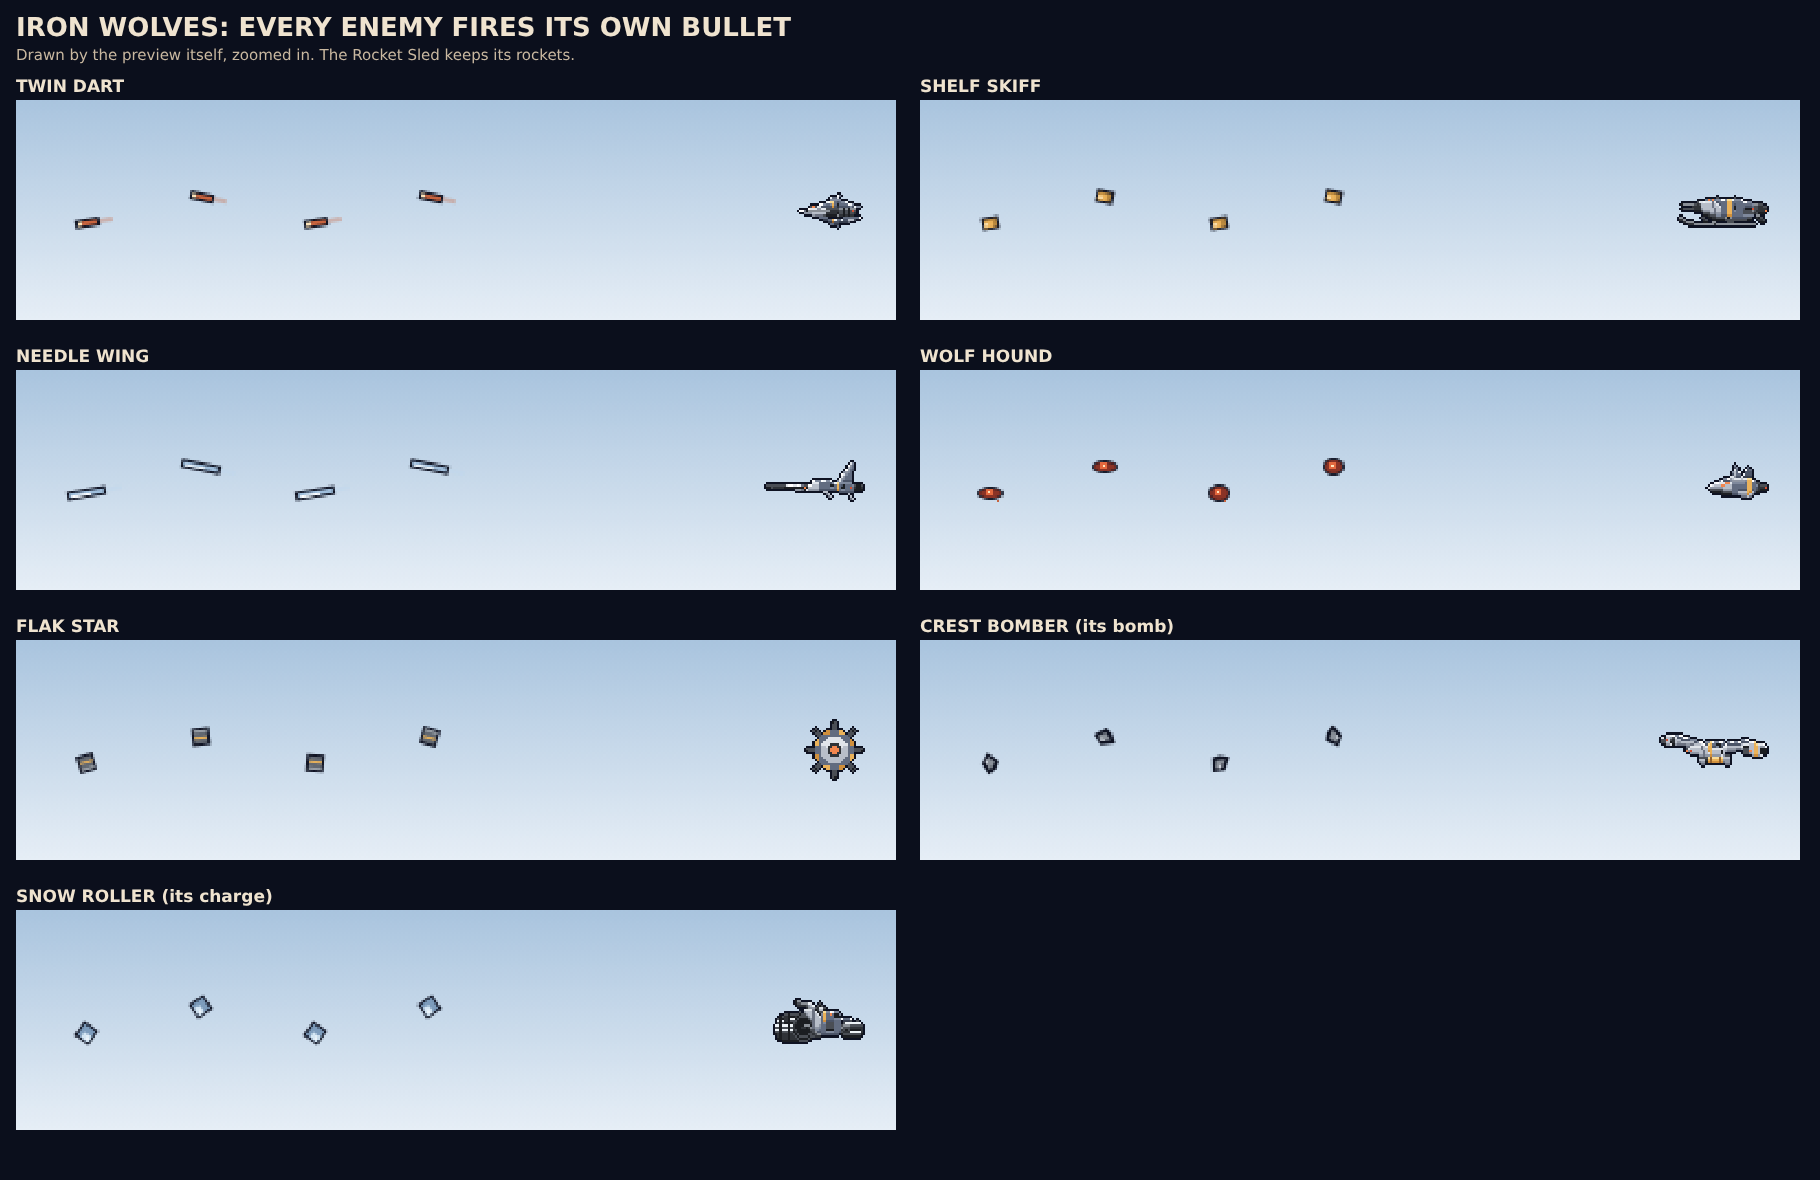
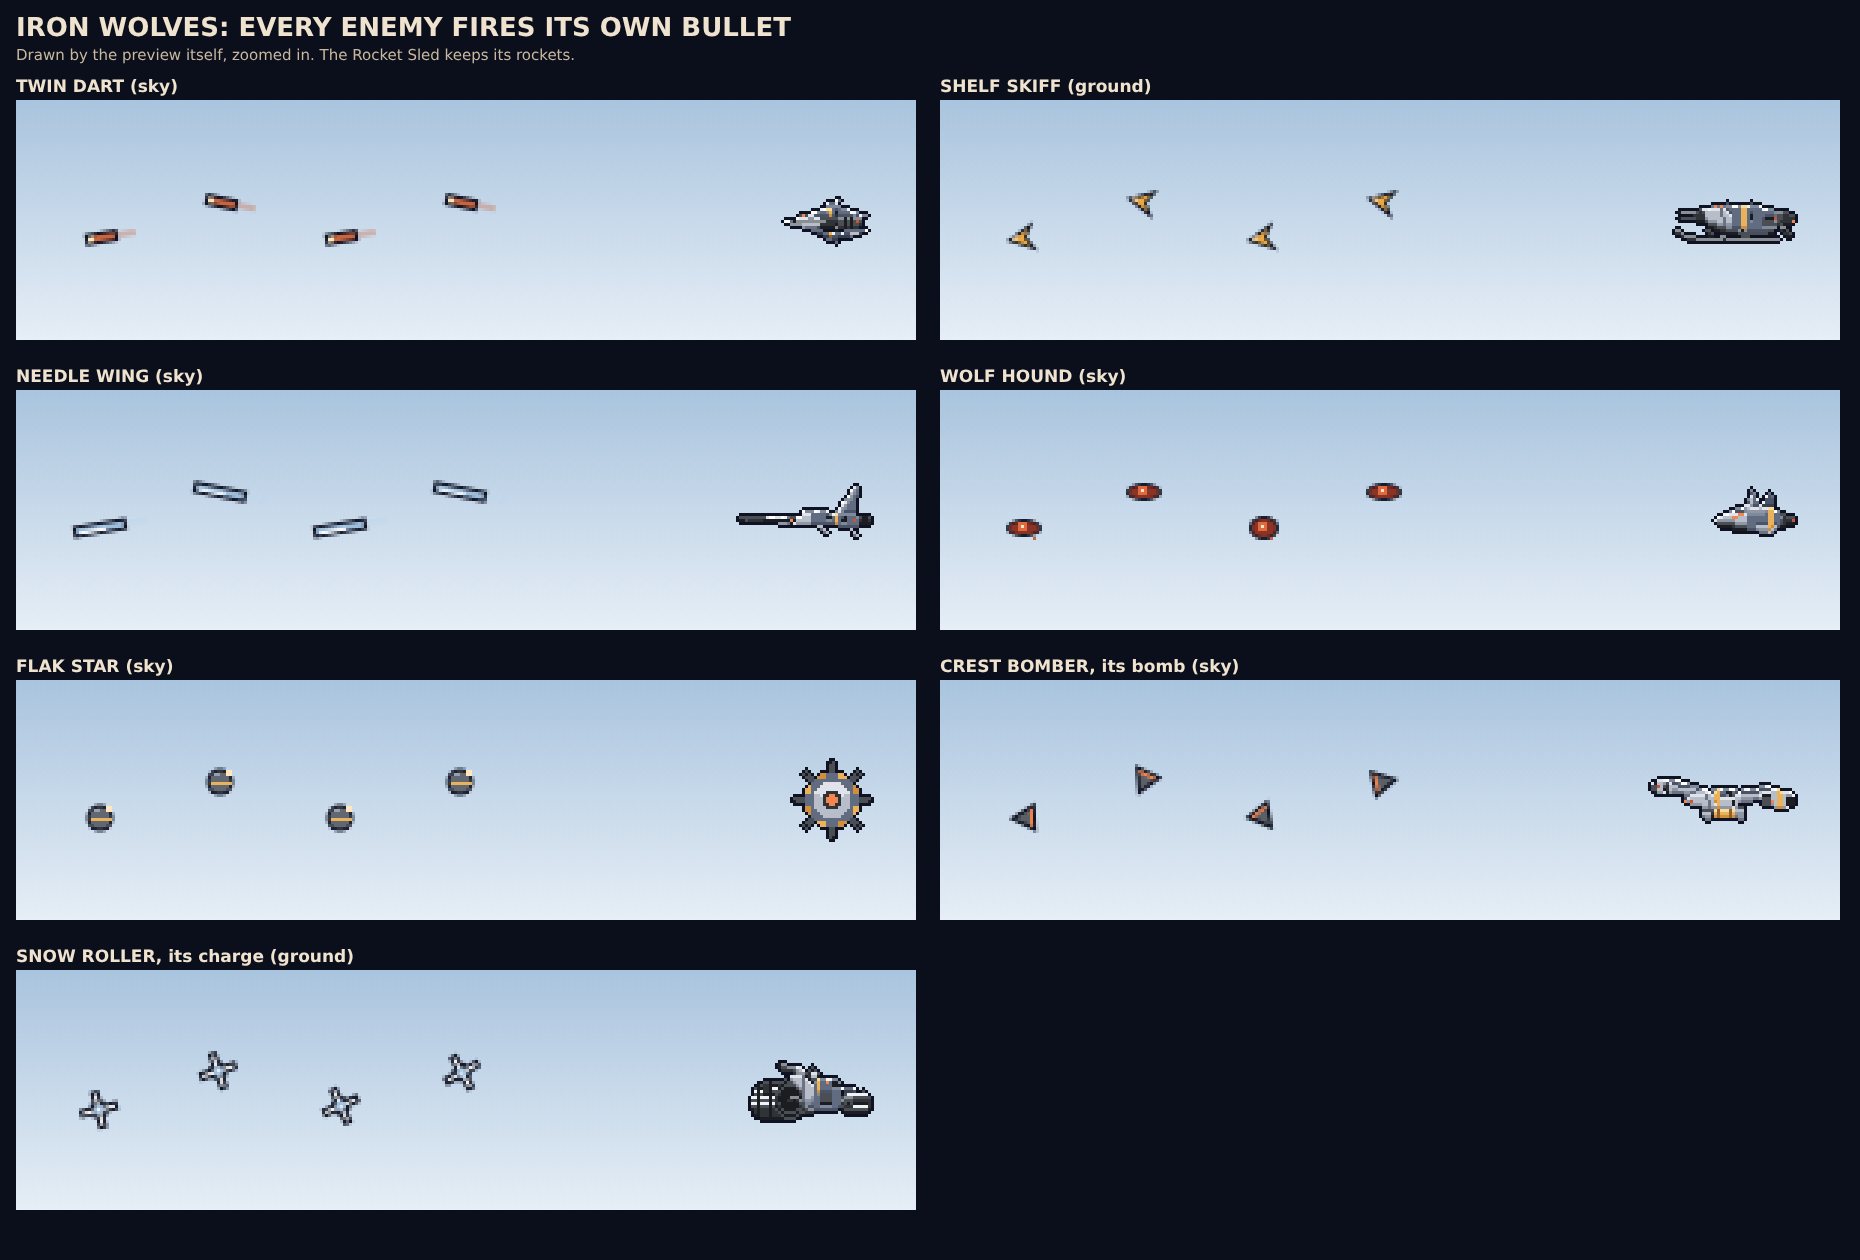
White Front preview: every bullet a different shape, not just colour
The owner saw a sky enemy and a ground enemy whose bullets still looked
alike. Now each is its own shape: red bolt (Twin Dart), brass arrowhead
(Shelf Skiff), long icy needle (Needle Wing), red-hot glob (Wolf Hound),
round grey flak ball (Flak Star), jagged triangle (bomb casing) and white
four-pointed ice crystal (Snow Roller's charge).

Claude-Session: https://claude.ai/code/session_018LoGNSpf9yPrdZyEJhPLuc

diff --git a/tools/white-front/sample/game.html b/tools/white-front/sample/game.html
@@ -510,15 +510,18 @@ const near = (x, y, r) => pAlive() && Math.hypot(S.p.x - x, S.p.y - y) < r;
 const aim = (x, y, sp) => { const dx = S.p.x - x, dy = S.p.y - y, d = Math.hypot(dx, dy) || 1; return [dx / d * sp, dy / d * sp]; };
 const speedUp = () => 1 + S.cycle * 0.12;
 // Every Iron Wolves enemy has its own bullet, each with a dark outline so it shows on snow and sky:
-// slug (Shelf Skiff), tracer (Twin Dart), rail (Needle Wing), slag (Wolf Hound), flak (Flak Star),
-// shard (Crest Bomber's bomb), ice (Snow Roller's charge); shell and ball for the older test armies.
+// each a different shape as well as colour, so no two can be mixed up at phone size:
+// slug (Shelf Skiff: brass arrowhead), tracer (Twin Dart: red bolt), rail (Needle Wing: long icy needle),
+// slag (Wolf Hound: red-hot glob), flak (Flak Star: round grey ball with an orange band), shard (Crest
+// Bomber's bomb: jagged triangle), ice (Snow Roller's charge: white four-pointed crystal); shell and ball for older armies.
 function drawBullet(e) {
   const x = Math.round(e.x * 2), y = Math.round(e.y * 2), K = '#0e1222', t = S.t + (e.seed || 0);
   const spin = (a, f) => { g.save(); g.translate(x, y); g.rotate(a); f(); g.restore(); };
   const along = Math.atan2(e.vy, e.vx);
   switch (e.kind) {
-    case 'slug': spin(along, () => { // a brass twin-gun slug
-      g.fillStyle = K; g.fillRect(-4, -3, 8, 6); g.fillStyle = '#b8873e'; g.fillRect(-3, -2, 6, 4); g.fillStyle = '#eab25a'; g.fillRect(-1, -2, 4, 3); g.fillStyle = '#fff1cf'; g.fillRect(1, -1, 2, 1); }); break;
+    case 'slug': spin(along, () => { // a brass arrowhead pointing where it flies (a chevron, nose first)
+      g.fillStyle = K; g.beginPath(); g.moveTo(6, 0); g.lineTo(-4, -5); g.lineTo(-1, 0); g.lineTo(-4, 5); g.closePath(); g.fill();
+      g.fillStyle = '#e8a845'; g.beginPath(); g.moveTo(4, 0); g.lineTo(-2, -3); g.lineTo(0, 0); g.lineTo(-2, 3); g.closePath(); g.fill(); g.fillStyle = '#fff1cf'; g.fillRect(2, 0, 2, 1); }); break;
     case 'tracer': spin(along, () => { // a red tracer bolt with a hot head and a fading tail
       g.fillStyle = 'rgba(200,100,63,0.35)'; g.fillRect(-12, -1, 8, 2); g.fillStyle = K; g.fillRect(-6, -2, 11, 4);
       g.fillStyle = '#c8643f'; g.fillRect(-5, -1, 7, 2); g.fillStyle = '#ffe6bc'; g.fillRect(2, -1, 2, 2); }); break;
@@ -531,14 +534,16 @@ function drawBullet(e) {
       g.fillStyle = '#8a3326'; g.beginPath(); g.ellipse(x, y, 4 + w, 3 - w, 0, 0, 7); g.fill();
       g.fillStyle = '#e2683e'; g.fillRect(x - 2, y - 2, 3, 3); g.fillStyle = '#ffe6bc'; g.fillRect(x - 1, y - 1, 1, 1);
       if (Math.floor(t * 12) % 3 === 0) { g.fillStyle = '#c8643f'; g.fillRect(x + 2 + w, y + 3, 1, 1); } break; }
-    case 'flak': spin(t * 9, () => { // a tumbling steel flak shell with a hazard band
-      g.fillStyle = K; g.fillRect(-4, -4, 8, 8); g.fillStyle = '#626871'; g.fillRect(-3, -3, 6, 6); g.fillStyle = '#9aa0a8'; g.fillRect(-3, -3, 6, 1);
-      g.fillStyle = '#eab25a'; g.fillRect(-3, 0, 6, 1); }); break;
-    case 'shard': spin(t * 14, () => { // a jagged spinning shard of bomb casing
-      g.fillStyle = K; g.beginPath(); g.moveTo(-5, -2); g.lineTo(1, -4); g.lineTo(5, 0); g.lineTo(0, 4); g.lineTo(-3, 2); g.closePath(); g.fill();
-      g.fillStyle = '#8a9099'; g.beginPath(); g.moveTo(-3, -1); g.lineTo(1, -2); g.lineTo(3, 0); g.lineTo(0, 2); g.closePath(); g.fill(); g.fillStyle = '#d6dbe3'; g.fillRect(0, -2, 2, 1); }); break;
-    case 'ice': spin(along + Math.PI / 4, () => { // a chunk of packed snow and ice thrown out by a burst charge
-      g.fillStyle = K; g.fillRect(-4, -4, 8, 8); g.fillStyle = '#7d9cbc'; g.fillRect(-3, -3, 6, 6); g.fillStyle = '#d6e7f4'; g.fillRect(-3, -3, 4, 3); g.fillStyle = '#ffffff'; g.fillRect(-2, -2, 1, 1); }); break;
+    case 'flak': { // a round grey flak ball with an orange band and a blinking fuse
+      g.fillStyle = K; g.beginPath(); g.arc(x, y, 4.5, 0, 7); g.fill(); g.fillStyle = '#626871'; g.beginPath(); g.arc(x, y, 3.5, 0, 7); g.fill();
+      g.fillStyle = '#9aa0a8'; g.fillRect(x - 2, y - 3, 2, 1); g.fillStyle = '#eab25a'; g.fillRect(x - 3, y, 7, 1);
+      if (Math.floor(t * 16) % 2) { g.fillStyle = '#ffe6bc'; g.fillRect(x + 2, y - 4, 2, 2); } break; }
+    case 'shard': spin(t * 14, () => { // a jagged triangle of bomb casing, still glowing at one edge
+      g.fillStyle = K; g.beginPath(); g.moveTo(-5, 4); g.lineTo(0, -5); g.lineTo(5, 4); g.closePath(); g.fill();
+      g.fillStyle = '#5b5f66'; g.beginPath(); g.moveTo(-3, 3); g.lineTo(0, -3); g.lineTo(3, 3); g.closePath(); g.fill(); g.fillStyle = '#f2864e'; g.fillRect(-3, 2, 6, 1); }); break;
+    case 'ice': spin(t * 4, () => { // a white four-pointed ice crystal (a little snowflake) from a burst charge
+      g.fillStyle = K; g.fillRect(-1, -6, 3, 13); g.fillRect(-6, -1, 13, 3); g.fillRect(-2, -2, 5, 5);
+      g.fillStyle = '#ffffff'; g.fillRect(0, -5, 1, 11); g.fillRect(-5, 0, 11, 1); g.fillStyle = '#9fbedc'; g.fillRect(-1, -1, 3, 3); g.fillStyle = '#ffffff'; g.fillRect(0, 0, 1, 1); }); break;
     case 'shell': g.fillStyle = K; g.beginPath(); g.arc(x, y, 4, 0, 7); g.fill(); g.fillStyle = '#9b7953'; g.beginPath(); g.arc(x, y, 3, 0, 7); g.fill(); g.fillStyle = '#f1d69a'; g.fillRect(x - 1, y - 2, 2, 2); break;
     default: g.fillStyle = K; g.fillRect(x - 3, y - 2, 6, 4); g.fillRect(x - 2, y - 3, 4, 6); g.fillStyle = e.kind === 'acid' ? '#c9a05a' : '#e3a857'; g.fillRect(x - 2, y - 1, 4, 2); g.fillRect(x - 1, y - 2, 2, 4); g.fillStyle = '#f6dcae'; g.fillRect(x - 1, y - 1, 1, 1);
   }

diff --git a/CLAUDE.md b/CLAUDE.md
@@ -570,13 +570,15 @@ this story. (Frostring's looks: the invaders moving into the ice ring.)
    fragments). 3 salvos 1.8 s apart (it waits while you respawn), then it
    leaves; 6 hits to destroy; about 3 a minute. Cargo pods as on every
    level.
-   **Every enemy has its own bullet** (owner, after the Rocket Sled), all
-   with a dark outline so they show on snow and sky: Twin Dart a red
-   tracer bolt with a fading tail, Shelf Skiff a brass slug, Needle Wing a
-   long icy needle of light, Wolf Hound a wobbling glob of molten slag,
-   Flak Star a tumbling steel flak shell with a hazard band, the Crest
-   Bomber's bomb jagged spinning shards, the Snow Roller's charge chunks
-   of packed snow and ice; the Rocket Sled keeps its rockets.
+   **Every enemy has its own bullet** (owner, after the Rocket Sled), a
+   different shape *and* colour each (owner: a sky and a ground enemy's
+   still looked alike), all with a dark outline so they show on snow and
+   sky: Twin Dart a red tracer bolt with a fading tail, Shelf Skiff a
+   brass arrowhead, Needle Wing a long icy needle of light, Wolf Hound a
+   wobbling red-hot glob of slag, Flak Star a round grey flak ball with
+   an orange band and a blinking fuse, the Crest Bomber's bomb jagged
+   spinning triangles of casing with a hot edge, the Snow Roller's charge
+   white four-pointed ice crystals; the Rocket Sled keeps its rockets.
    The owner removed the big armoured sled (and with it the Anchor Gun).
    The real level needs about 220–250 enemies (harder than Frostring).
    (The ChatGPT experiments stay in `art/white-front/` and
